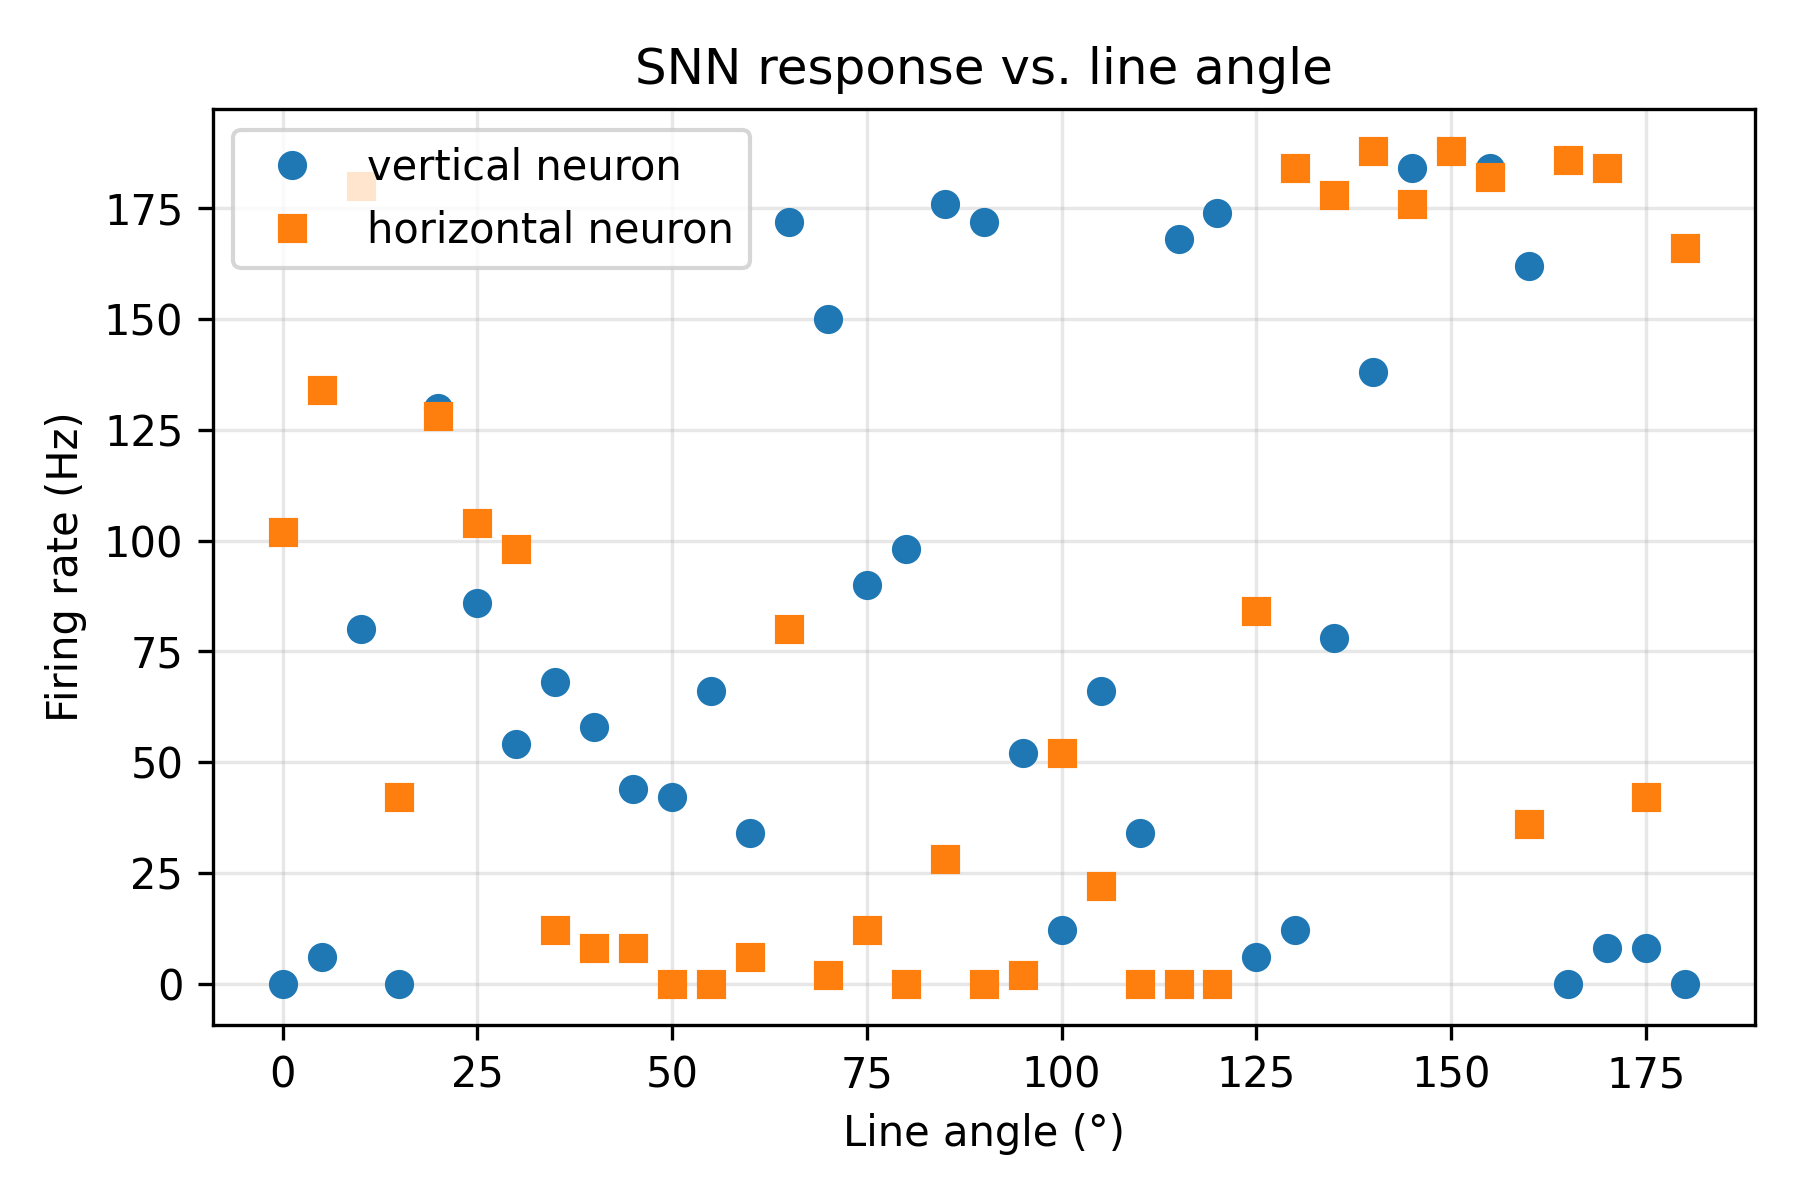
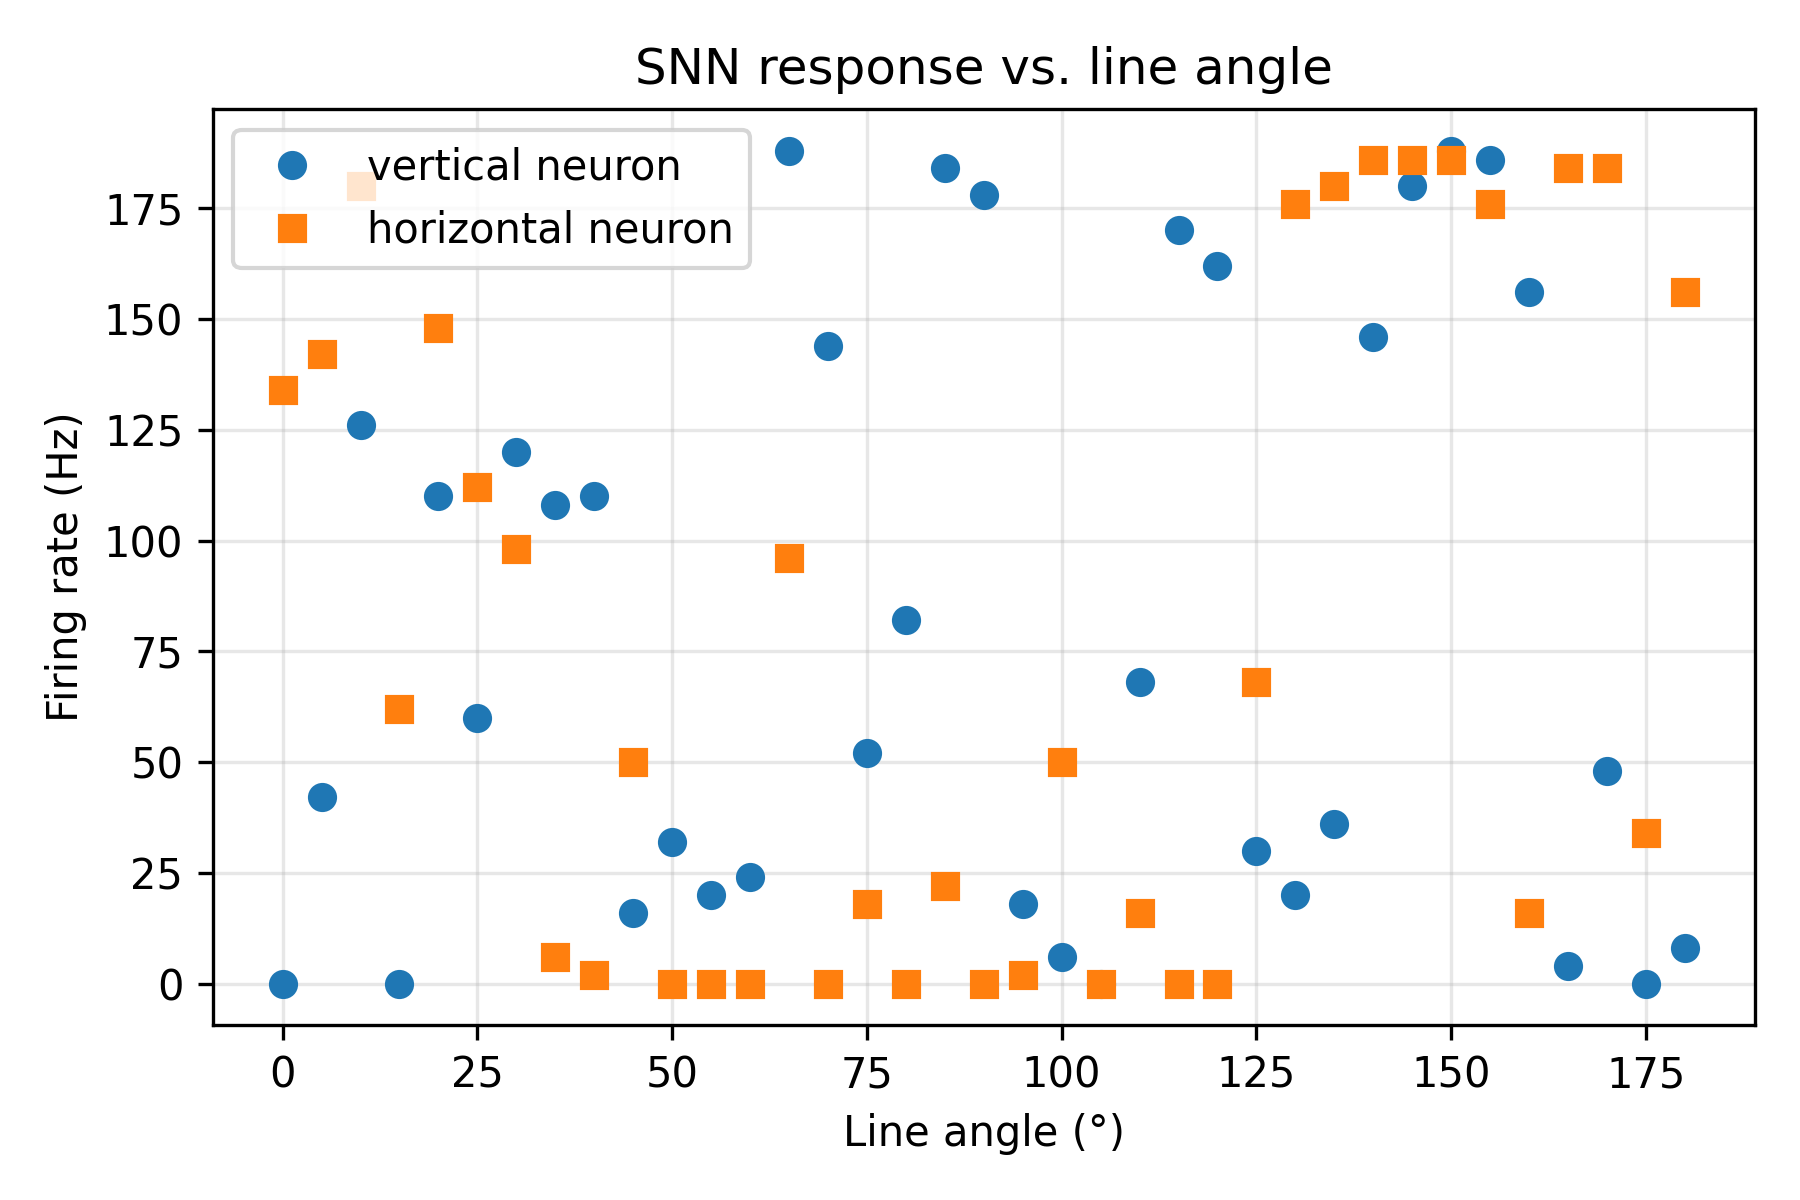
Add SNN response simulation with background noise
- Implemented a new script `snn_withNoise_response.py` to simulate and plot the firing rates of a spiking neural network (SNN) in response to line angles with added background noise.
- Integrated Poisson noise input into each layer of the SNN to assess its impact on firing rates.
- Utilized a trained artificial neural network (ANN) to extract weights and biases for the SNN.
- Added functionality to generate line images at specified angles and encode them as Poisson rates for the SNN input.
- Included plotting of firing rates for vertical and horizontal neurons against line angles, saving the output as a PNG file.

diff --git a/tests/snn_withNoise_response.py b/tests/snn_withNoise_response.py
@@ -1,0 +1,141 @@
+#!/usr/bin/env python3
+# angle_response_snn_noise.py — plot SNN firing‐rates vs. line angle w/ background noise
+
+import numpy as np
+import matplotlib.pyplot as plt
+from PIL import Image, ImageDraw
+from tensorflow.keras.models import load_model
+from brian2 import (
+    NeuronGroup, Synapses, PoissonGroup, SpikeMonitor, Network,
+    mV, Hz, ms
+)
+from config import PLOTS
+
+# ─── hyperparameters ────────────────────────────────────────────────
+IMG_SIZE      = 20                     # image is 20×20 px
+MODEL_PATH    = "results/trained_ann.h5"
+ANGLES        = np.linspace(0, 180, 37)  # 0°,5°,10°, …,180°
+SIM_TIME_MS   = 500.                   # ms per image
+MAX_RATE_HZ   = 300.                   # peak Poisson for signal
+BIAS_SCALE    = 0.3                    # bias→mV
+NOISE_RATE_HZ = 10.0                   # background spike rate (Hz)
+NOISE_WEIGHT  = 0.05                   # mV added per noise spike
+OUT_FIG       = PLOTS / "snn_angle_response_noise.png"
+
+# ─── helper to draw a single‐line image ──────────────────────────────
+def make_line(angle_deg):
+    img = Image.new("L", (IMG_SIZE, IMG_SIZE), 255)
+    draw = ImageDraw.Draw(img)
+    cx = cy = IMG_SIZE/2
+    L = IMG_SIZE * 1.2
+    theta = np.deg2rad(angle_deg)
+    dx, dy = np.cos(theta)*(L/2), np.sin(theta)*(L/2)
+    draw.line([(cx-dx, cy-dy), (cx+dx, cy+dy)],
+              fill=0, width=3)
+    return np.array(img, dtype=np.uint8)
+
+# ─── LIF equations ───────────────────────────────────────────────────
+def lif_eqs():
+    return """
+    dv/dt    = (-v + I_syn + I_bias) / (20*ms) : volt
+    dI_syn/dt = -I_syn/(20*ms)                : volt
+    I_bias : volt (constant)
+    """
+
+def main():
+    # 1) load ANN → extract weights & biases
+    ann = load_model(MODEL_PATH, compile=False)
+    Ws = [lyr.get_weights()[0].astype(np.float32)
+          for lyr in ann.layers if len(lyr.get_weights())==2]
+    bs = [lyr.get_weights()[1].astype(np.float32)
+          for lyr in ann.layers if len(lyr.get_weights())==2]
+
+    # 2) prepare angles→images
+    imgs = np.stack([make_line(a) for a in ANGLES])
+    X = imgs.reshape(-1, IMG_SIZE*IMG_SIZE).astype(np.float32)/255.0
+
+    # 3) run SNN on each image
+    rates_out = []
+    for flat in X:
+        # encode pixels as Poisson rates
+        rates = (1.0 - flat)*MAX_RATE_HZ
+
+        # create neuron groups: h1,h2,h3,out
+        sizes = [W.shape[1] for W in Ws]
+        groups = []
+        for n in sizes:
+            G = NeuronGroup(n, lif_eqs(),
+                            threshold="v>0.3*mV",
+                            reset="v=0*mV",
+                            refractory="5*ms",
+                            method="euler")
+            G.v = 0*mV
+            groups.append(G)
+        h1,h2,h3,out = groups
+
+        # inject biases
+        for G,b in zip(groups, bs):
+            b0 = (b * BIAS_SCALE)
+            b0 = np.pad(b0, (0, max(0, len(G)-len(b0))), 'constant')[:len(G)]
+            G.I_bias = b0 * mV
+
+        net = Network(*groups)
+
+        # helper to connect full‐matrix
+        def connect(pre, post, Wmat):
+            S = Synapses(pre, post, 'w:1', on_pre='I_syn_post += w*mV')
+            S.connect()             # all‐to‐all
+            S.w = Wmat.flatten()
+            net.add(S)
+
+        # hidden‐to‐hidden & hidden‐to‐out
+        connect(h1,h2, Ws[1])
+        connect(h2,h3, Ws[2])
+        connect(h3,out, Ws[3])
+
+        # Poisson input → h1 via W0
+        Pg = PoissonGroup(IMG_SIZE*IMG_SIZE, rates=rates*Hz)
+        S0 = Synapses(Pg, h1, 'w:1', on_pre='I_syn_post += w*mV')
+        S0.connect()
+        S0.w = Ws[0].flatten()
+        net.add(Pg, S0)
+
+        # ─── NEW: background noise into every layer ───────────────────
+        for G in groups:
+            Ng = PoissonGroup(len(G), rates=NOISE_RATE_HZ*Hz)
+            Sn = Synapses(Ng, G, on_pre=f'I_syn_post += {NOISE_WEIGHT}*mV')
+            Sn.connect(j='i')  # one‐to‐one noise
+            net.add(Ng, Sn)
+
+        # record output spikes
+        sm = SpikeMonitor(out)
+        net.add(sm)
+
+        # run
+        net.run(SIM_TIME_MS*ms, report=None)
+
+        dur = SIM_TIME_MS/1000.0
+        # neuron 0 → vertical, neuron 1 → horizontal
+        rates_out.append([sm.count[0]/dur, sm.count[1]/dur])
+
+    rates_out = np.array(rates_out, dtype=np.float32)
+
+    # 4) plot
+    plt.figure(figsize=(6,4))
+    plt.plot(ANGLES, rates_out[:,1],
+             marker='o', linestyle='None', label="vertical neuron")
+    plt.plot(ANGLES, rates_out[:,0],
+             marker='s', linestyle='None', label="horizontal neuron")
+    plt.xlabel("Line angle (°)")
+    plt.ylabel("Firing rate (Hz)")
+    plt.title(f"SNN response vs. line angle\n"
+              f"(noise: {NOISE_RATE_HZ:.1f} Hz, w={NOISE_WEIGHT} mV)")
+    plt.legend(loc="best")
+    plt.grid(alpha=0.3)
+    plt.tight_layout()
+    plt.savefig(OUT_FIG, dpi=300)
+    print(f"✅ Saved → {OUT_FIG}")
+    plt.show()
+
+if __name__=="__main__":
+    main()
